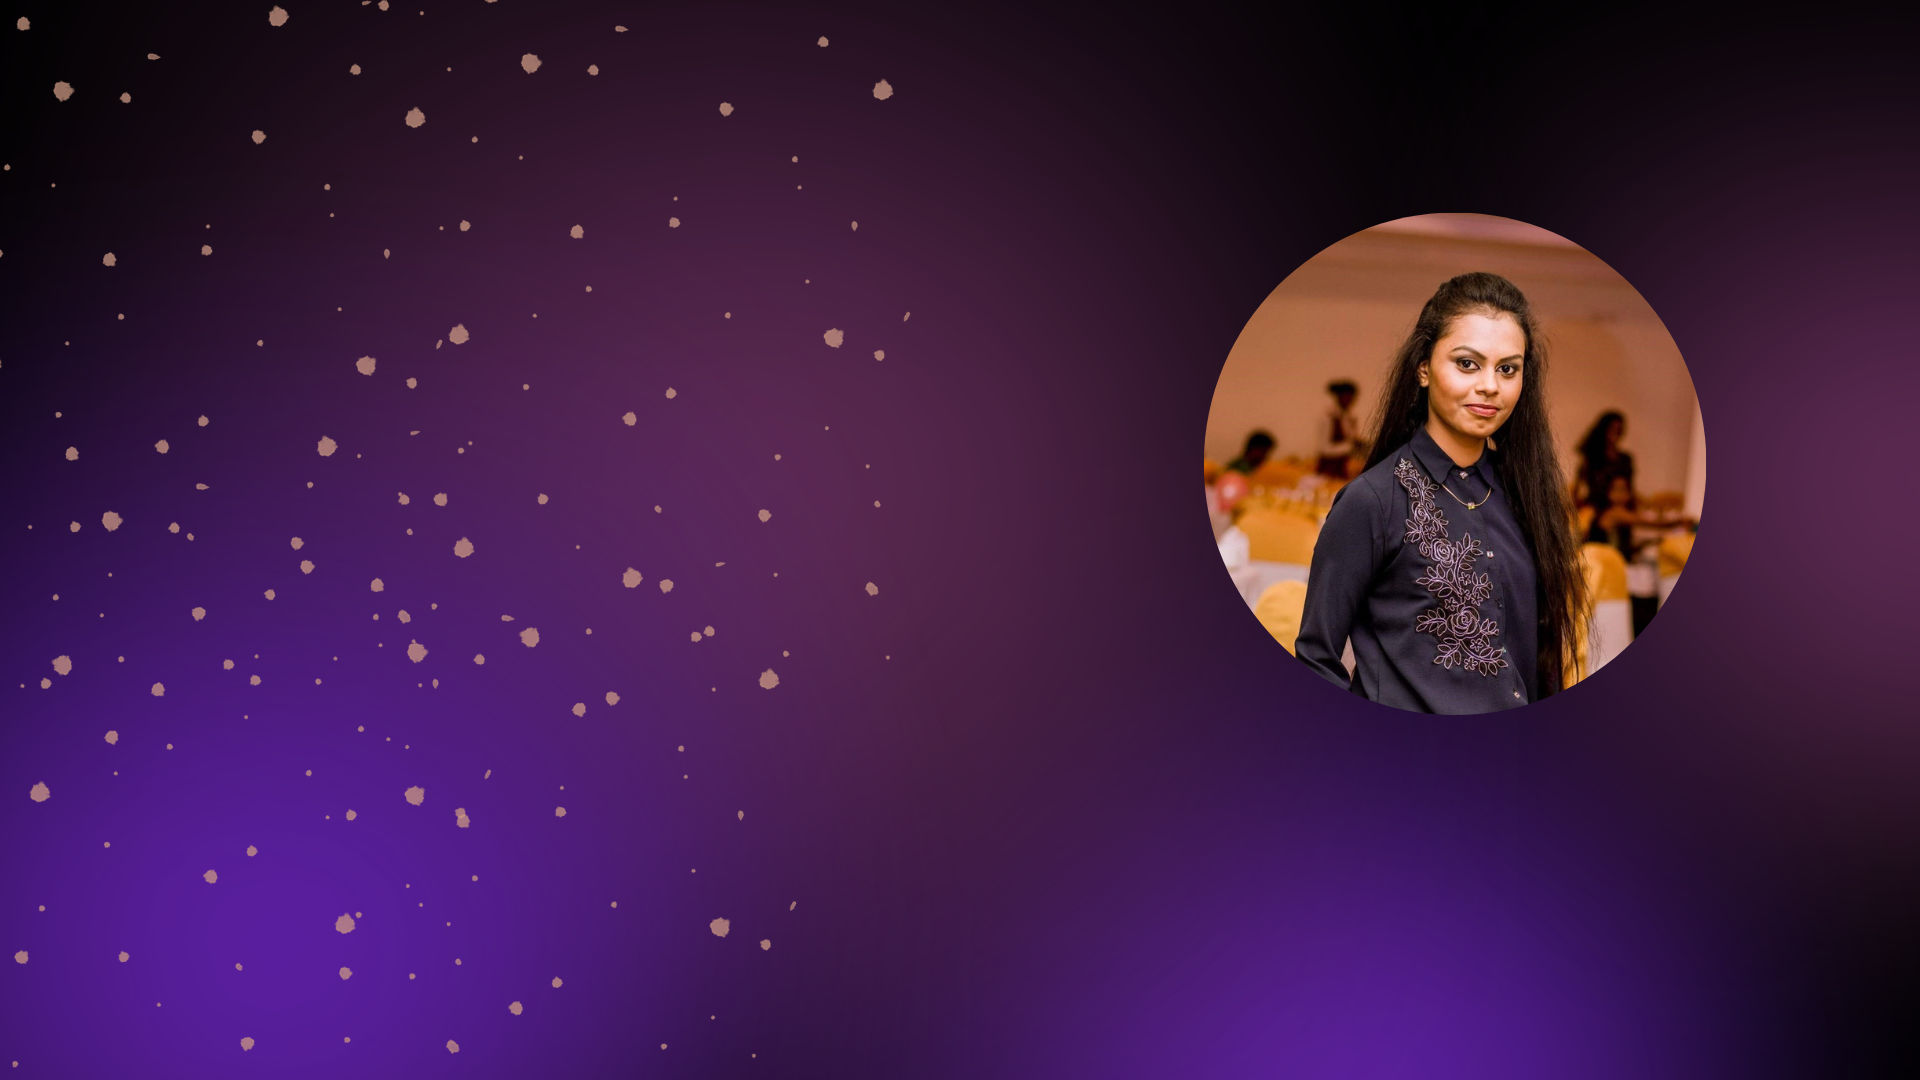
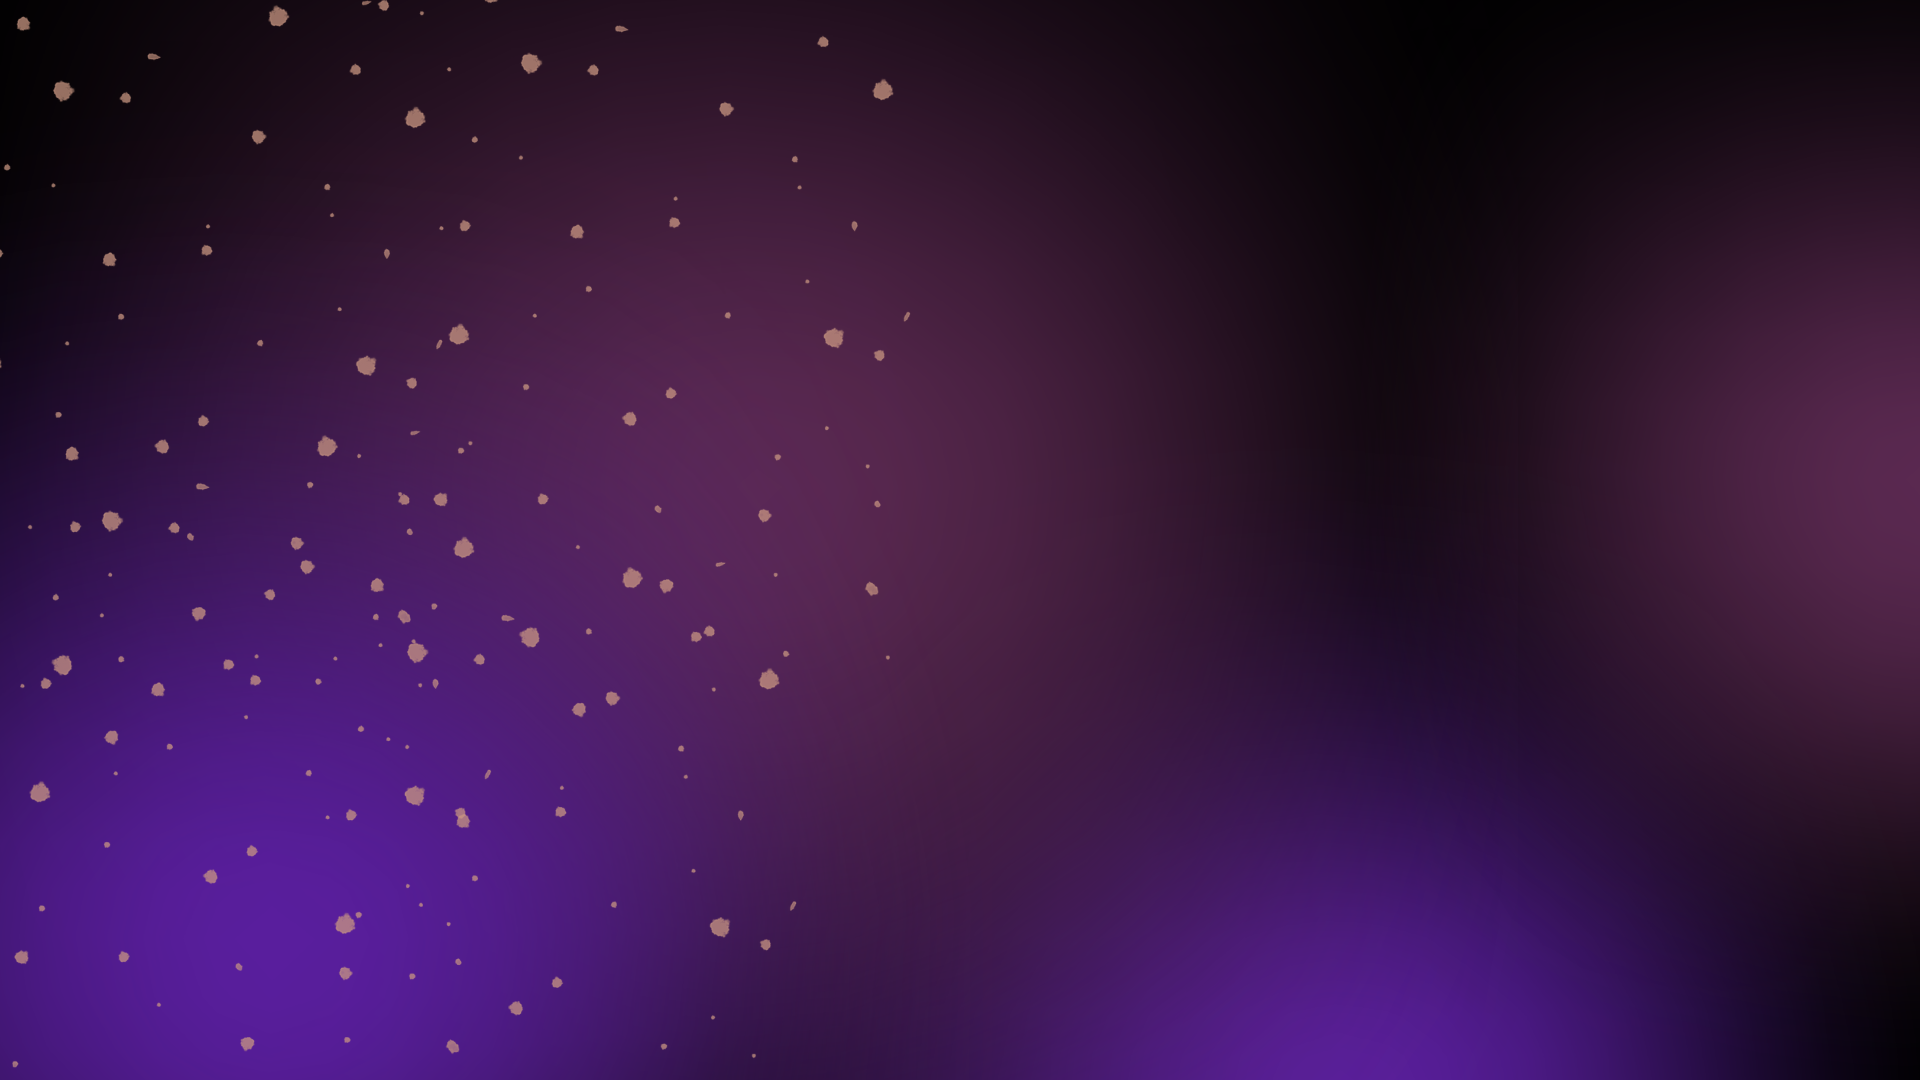
updated

Changed region(s): [[0.625, 0.1833, 0.9062, 0.6722]]

diff --git a/src/components/Banner.js b/src/components/Banner.js
@@ -57,13 +57,14 @@ export const Banner = () => {
               <div className={isVisible ? "animate__animated animate__fadeIn" : ""}>
                 <span className="tagline">Welcome to my Portfolio</span>
                 <h1>{`Hi! I'm Kavindu Chethani`} <span className="txt-rotate" dataPeriod="1000" 
-                data-rotate='[ "Developer", "Under graduate" ]'>
+                data-rotate='[ "Developer", "Under graduate"]'>
                   <span className="wrap">{text}
                   </span>
                   </span>
                   </h1>
-                  <p></p>
-                  <p></p>
+                  <p>I'm a Third-year undergraduate student from University of SLIIT,
+                     Faculty of Computing. I’m reading for BSc.(Hons) in Information Technology(special).</p>
+                  <p>I'm Intresting in Web Development, Mobile Development and front-end Development</p>
                   <p></p>
                   <p></p>
                   <span className="wrap">
@@ -76,14 +77,12 @@ export const Banner = () => {
               </div>}
             </TrackVisibility>
           </Col>
-          {/* <Col xs={12} md={6} xl={5}>
-            <TrackVisibility>
-              {({ isVisible }) =>
-                <div className={isVisible ? "animate__animated animate__zoomIn" : ""}>
+          <Col xs={12} md={6} xl={5}>
+                <div>
                   <img src={me} />
-                </div>}
-            </TrackVisibility>
-          </Col> */}
+                </div>
+           
+          </Col> 
         </Row>
       </Container>
     </section>

diff --git a/src/App.css b/src/App.css
@@ -233,11 +233,11 @@ nav.navbar .navbar-toggler[aria-expanded="true"] .navbar-toggler-icon {
 /************ Banner Css ************/
 .banner {
   margin-top: 0;
-  padding: 340px 0 100px 0;
+  padding: 150px 0 100px 0;
   background-image: url('./assets/img/banner-bg.png');
   background-position: top center;
   background-size: cover;
-  background-repeat: no-repeat;
+  /* background-repeat: no-repeat; */
 }
 .banner .tagline {
   font-weight: 700;
@@ -283,7 +283,7 @@ nav.navbar .navbar-toggler[aria-expanded="true"] .navbar-toggler-icon {
   margin-left: 25px;
 }
 .banner img {
-  animation: updown 3s linear infinite;
+  margin-top: -10;
 }
 @keyframes updown {
     0% {
@@ -310,7 +310,7 @@ nav.navbar .navbar-toggler[aria-expanded="true"] .navbar-toggler-icon {
   border-radius: 64px;
   text-align: center;
   padding: 50px 50px;
-  margin-top: -80px;
+  margin-top: -120px;
 }
 .skill h2 {
 	font-size: 45px;
